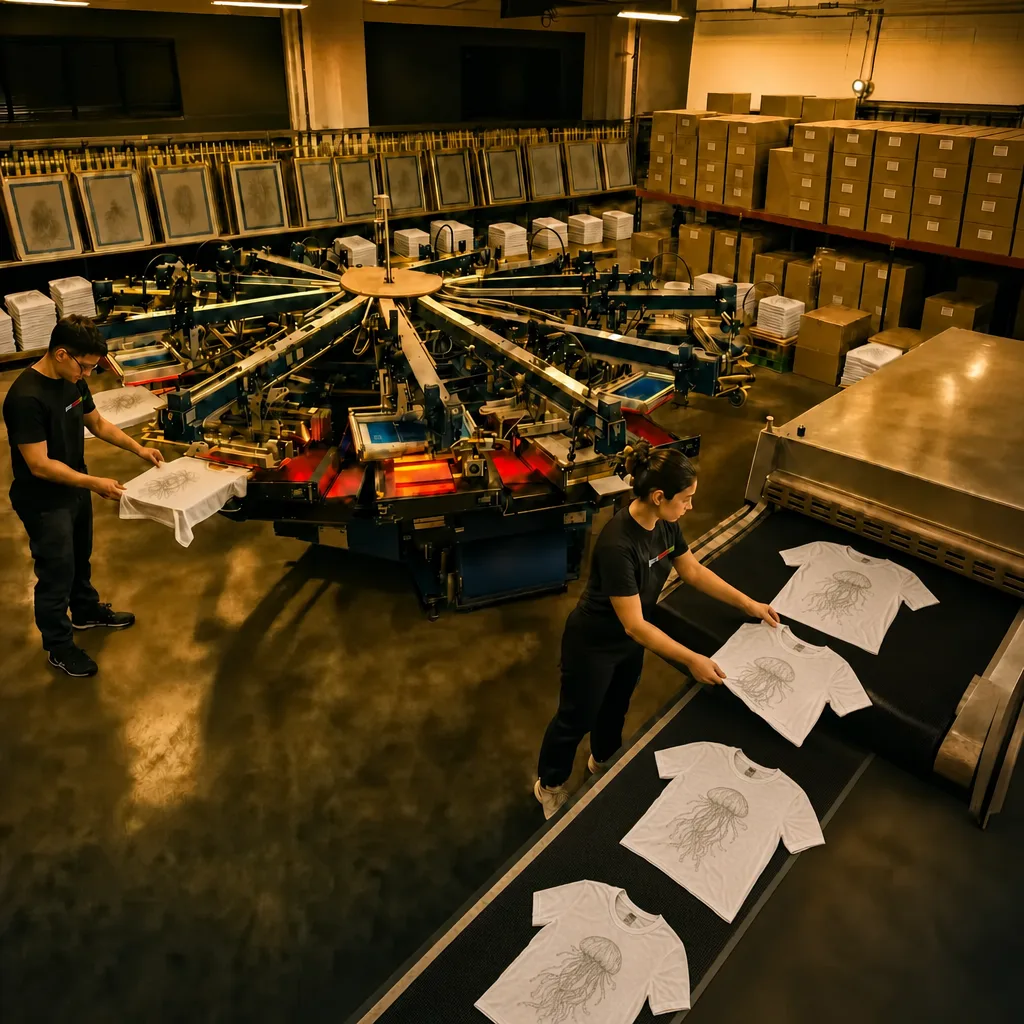
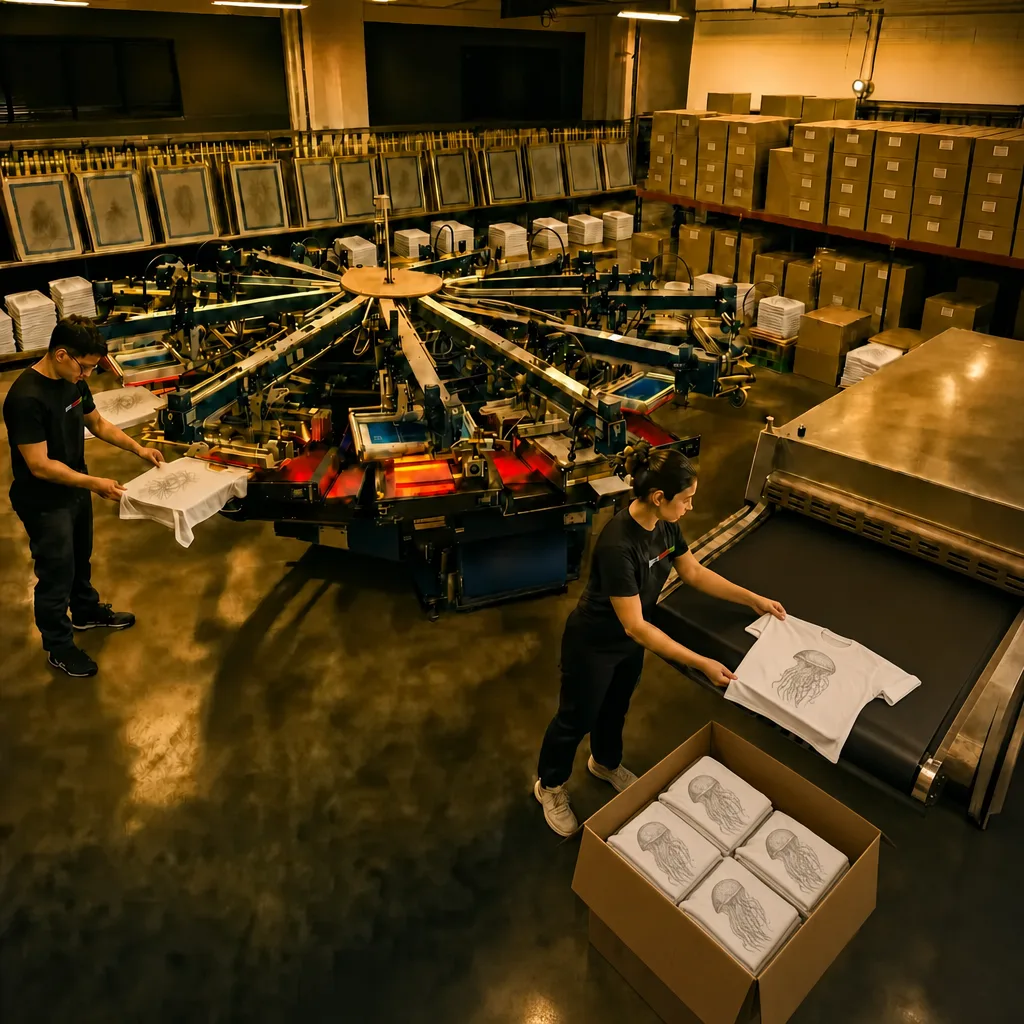
Shorten the print photo's dryer belt: one shirt out, box of folded tees at the end

diff --git a/src/lib/site-images.ts b/src/lib/site-images.ts
@@ -127,10 +127,9 @@ export const SITE_IMAGES: SiteImage[] = [
       "A professional screen-printing factory, wide shot. In the foreground, a big M&R-style automatic screen-printing " +
       "press: a 12-station carousel with a central hub, a ring of printing heads holding mesh screens, a heavy-duty " +
       "industrial steel frame, and red flash-cure units glowing orange-red between stations. Exactly two operators: " +
-      "one loads blank white tees onto the pallets on one side, and the other stands at the entry of a long conveyor " +
-      "dryer next to the press, taking each printed tee off the press and laying it on the moving belt one at a time, " +
-      "perfectly flat, front up, in a single neat row with an even gap between shirts: nothing overlaps or bunches at " +
-      "the entry; only at the far exit do finished shirts gather. Behind them: a wall rack of aluminium-framed mesh " +
+      "one loads blank white tees onto the pallets on one side, and the other stands at the exit of a conveyor dryer " +
+      "next to the press. Its short exit belt ends in a steel roller, with an open cardboard box of folded finished " +
+      "tees on the floor just past it; she lifts the only shirt on the belt, by its shoulders, as it comes out. Behind them: a wall rack of aluminium-framed mesh " +
       "screens lined up side by side, neat stacks of normal retail-folded tees (each about the size of a shoebox lid, " +
       "in realistic proportion to the people), and shipping boxes, taped and ready to go. The windows are blacked out and the hall is " +
       "lit by warm amber UV-filtered lights, because UV-reactive ink must be kept out of sunlight. Both operators wear " +
